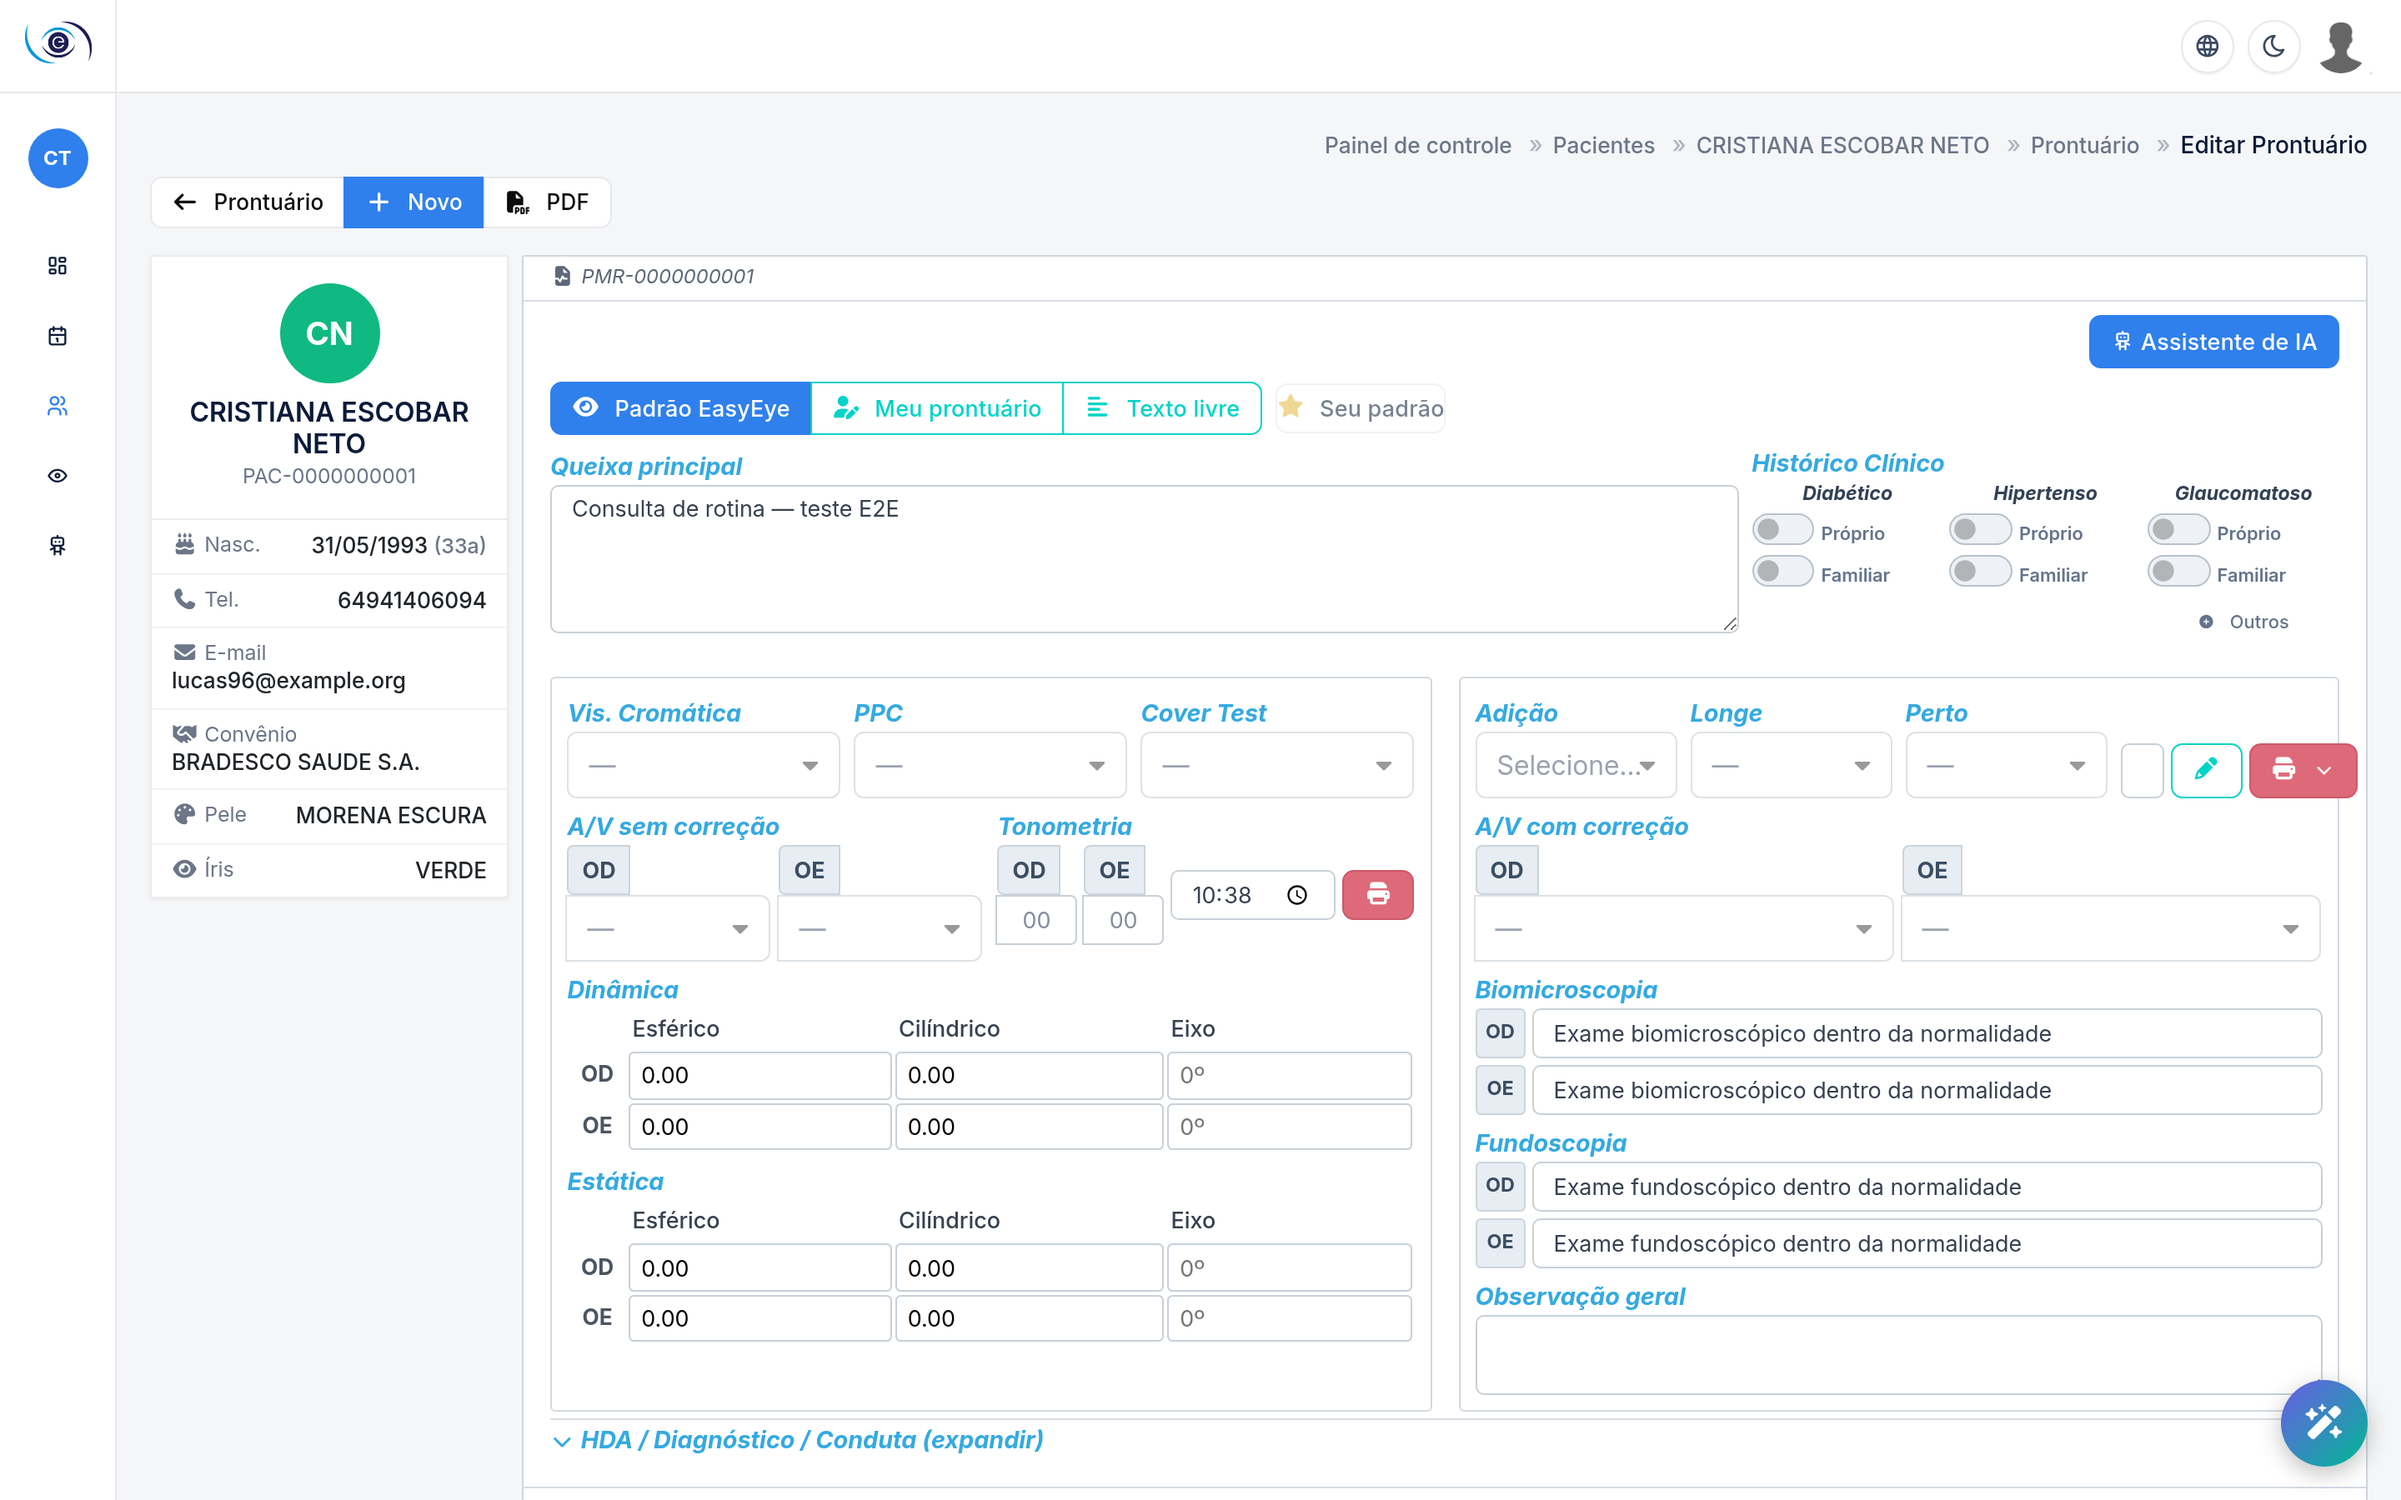
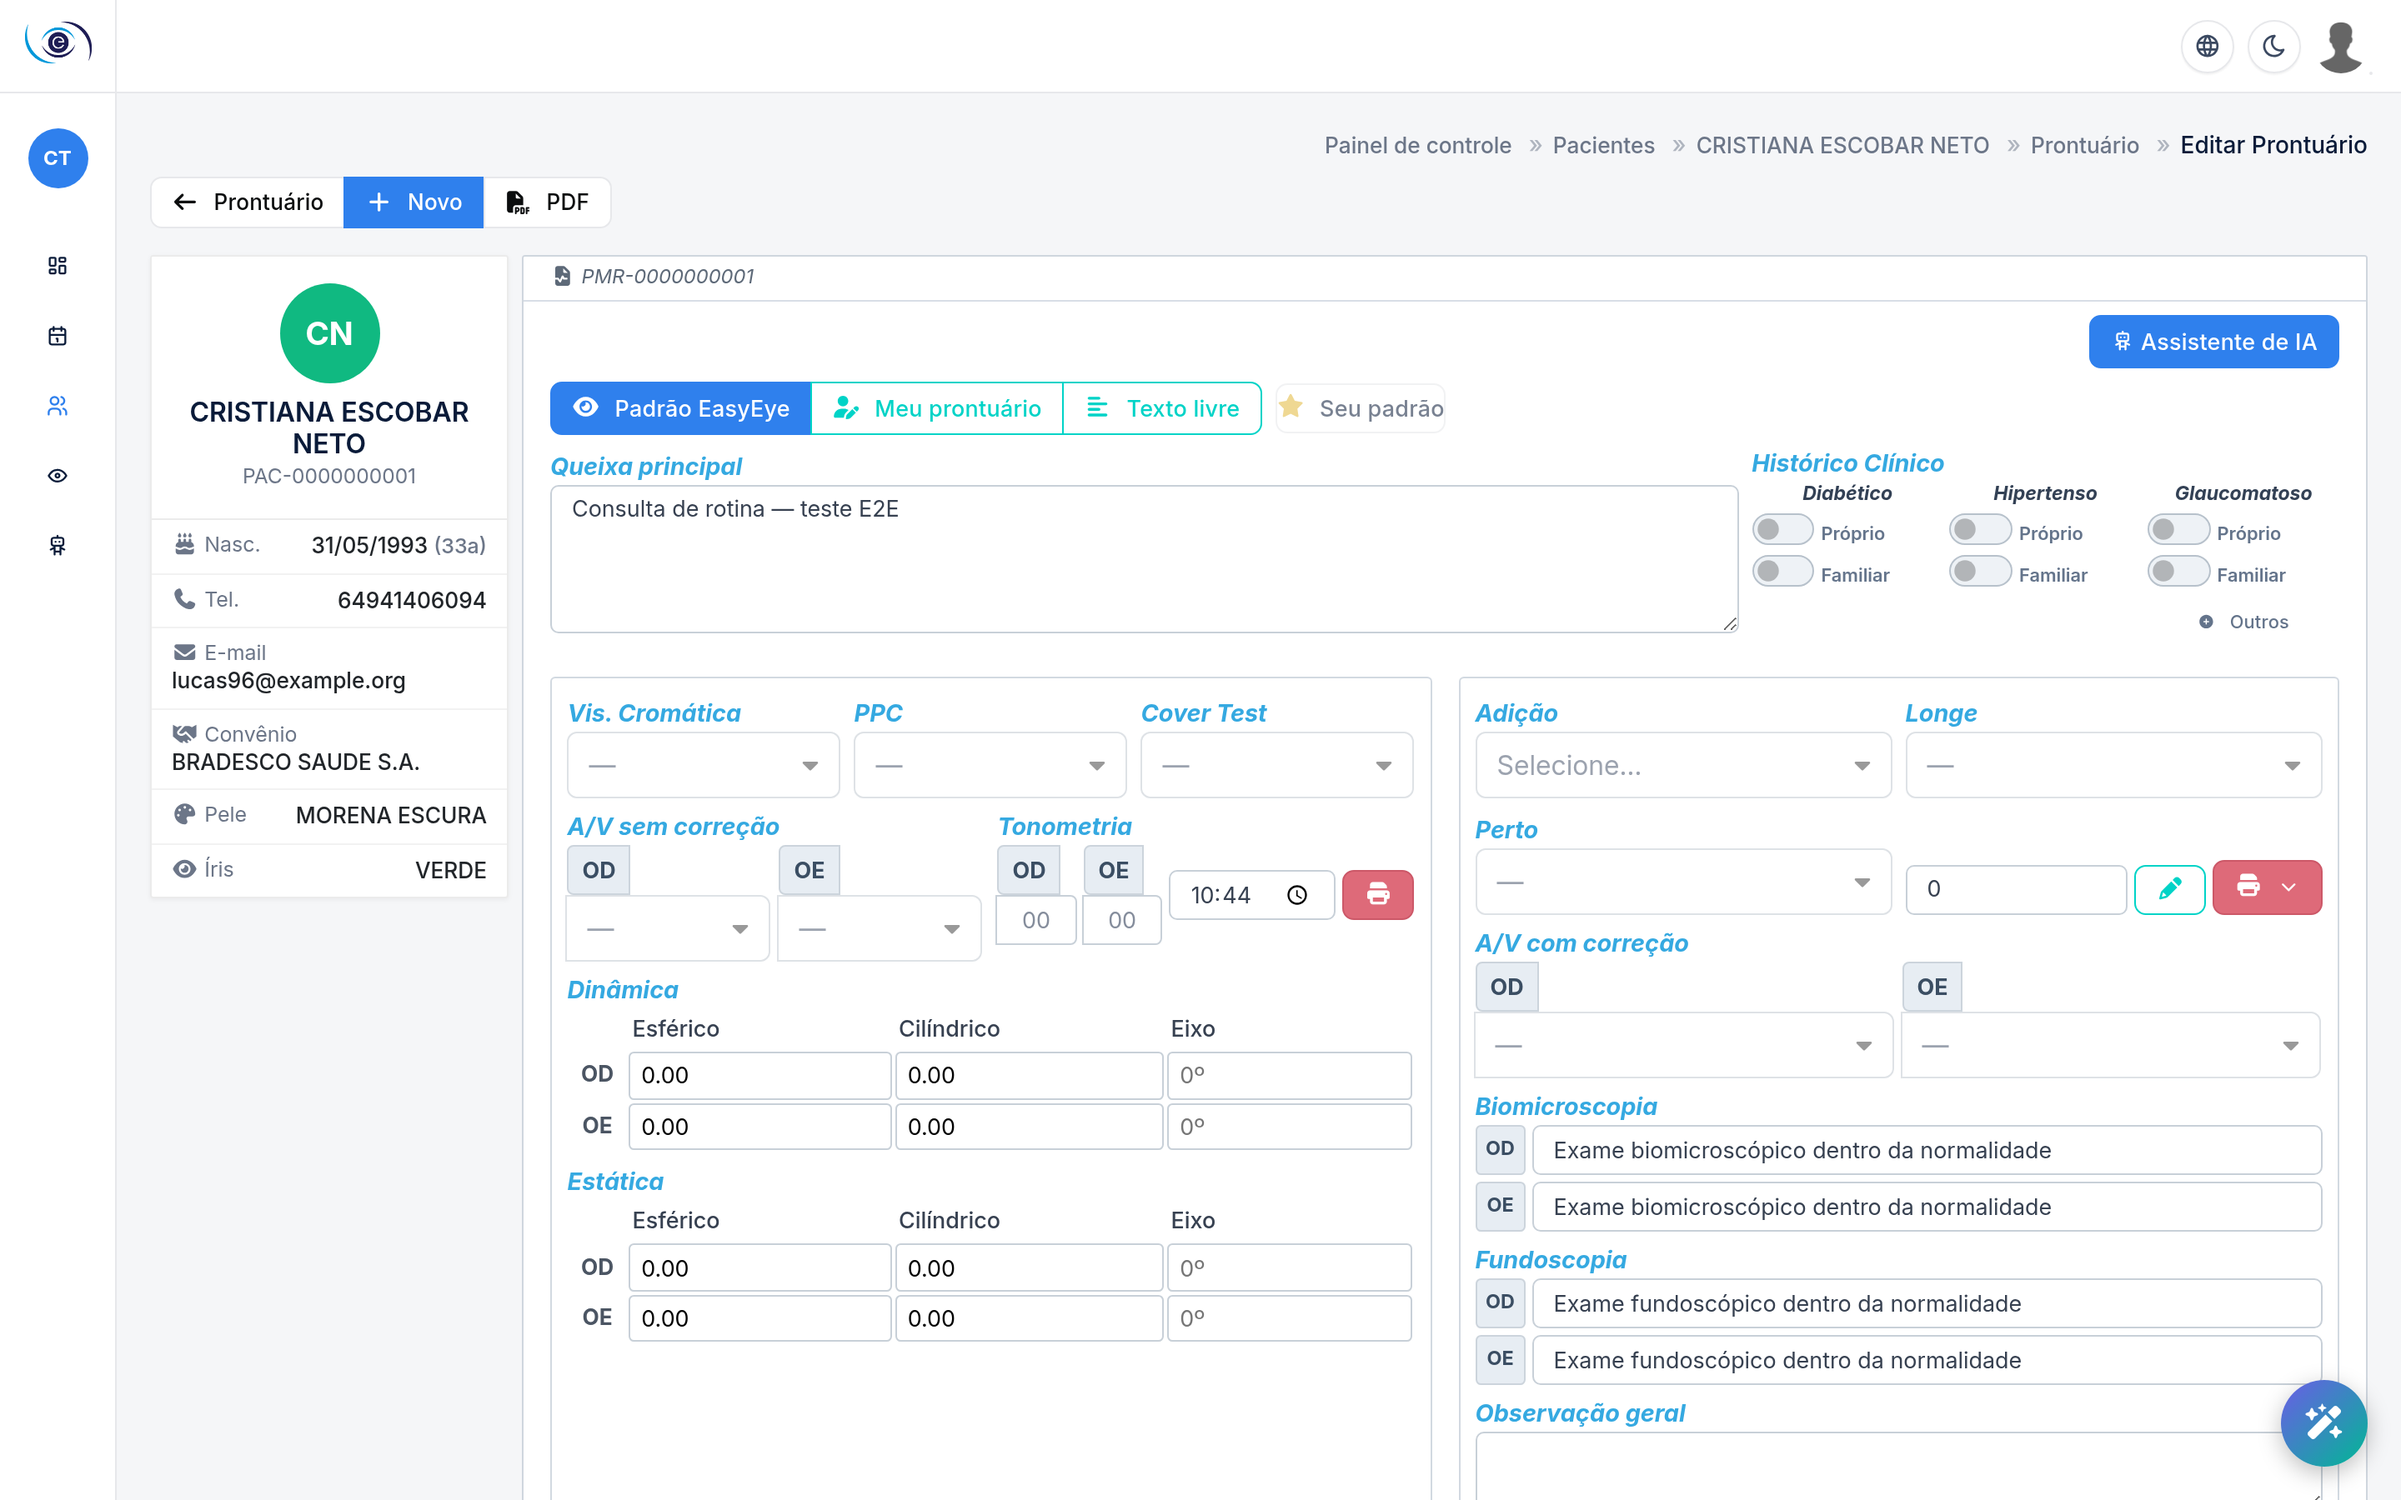
Melhoria no site

diff --git a/resources/js/Pages/Panel/MedicalRecords/Components/MedicalRecordForm.vue b/resources/js/Pages/Panel/MedicalRecords/Components/MedicalRecordForm.vue
@@ -1647,25 +1647,25 @@ const serializedCids = computed(() => JSON.stringify(selectedCids.value));
                     <!-- Adição / Longe / Perto + Calc -->
                     <div class="pmr-section mb-1" :style="sectionStyle('adicao')">
                         <div class="row g-2 align-items-end">
-                            <div class="col-6 col-xxl-3">
+                            <div class="col-6">
                                 <label class="pmr-label">{{ tt('addition', 'Adição') }}</label>
                                 <SearchSelect v-model="form.addition_type_id"
                                               :options="additionTypes"
                                               :placeholder="tt('select', 'Selecione')" :disabled="isLocked" />
                             </div>
-                            <div class="col-6 col-xxl-3">
+                            <div class="col-6">
                                 <label class="pmr-label">{{ tt('lens_away', 'Longe') }}</label>
                                 <SearchSelect v-model="form.lens_away_id"
                                               :options="lenses"
                                               :placeholder="'—'" :disabled="isLocked" />
                             </div>
-                            <div class="col-6 col-xxl-3">
+                            <div class="col-6">
                                 <label class="pmr-label">{{ tt('lens_near', 'Perto') }}</label>
                                 <SearchSelect v-model="form.lens_near_id"
                                               :options="lenses"
                                               :placeholder="'—'" :disabled="isLocked" />
                             </div>
-                            <div class="col-6 col-xxl-3 d-flex gap-1">
+                            <div class="col-6 d-flex gap-1 align-items-end">
                                 <input v-model.number="presbyopiaAddition" type="number" step="0.25"
                                        class="form-control form-control-sm" placeholder="Add." :disabled="isLocked">
                                 <button type="button" class="btn btn-outline-secondary btn-sm"
